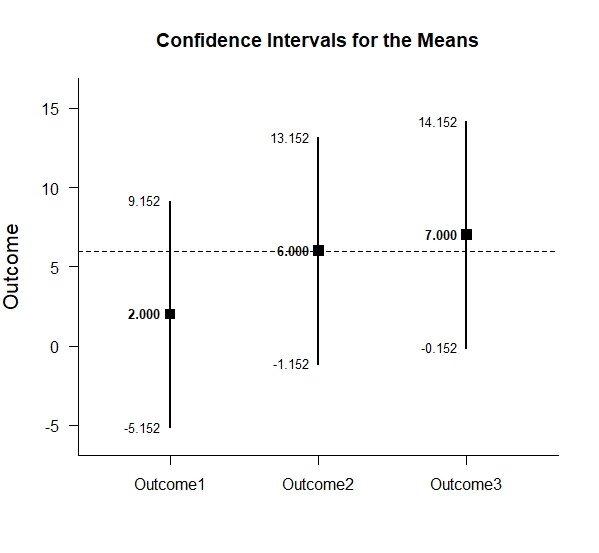
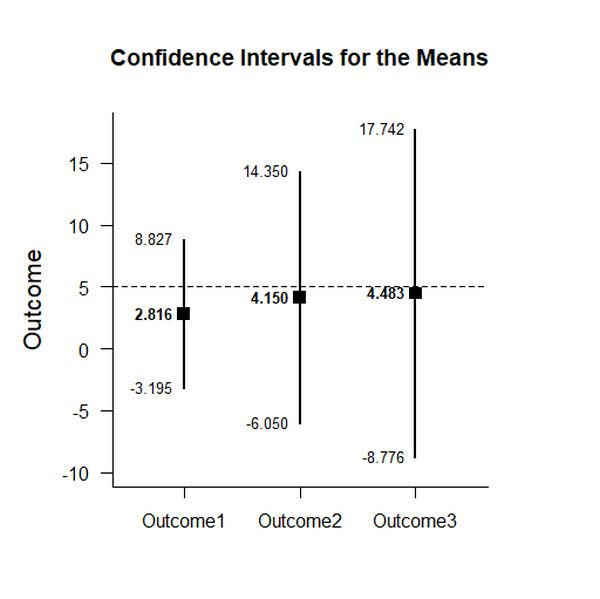
Updated examples

diff --git a/B-TutorialExamples/Repeated/Repeated-Data-Example.md b/B-TutorialExamples/Repeated/Repeated-Data-Example.md
@@ -76,7 +76,7 @@ plotMeans(Outcome1,Outcome2,Outcome3)
 
 Of course, it is possible to change from the default confidence level. Additionally, it is possible to add a comparison line to represent a population (or test) value.
 ```r
-plotMeans(Outcome1,Outcome2,Outcome3,conf.level=.99,mu=6)
+plotMeans(Outcome1,Outcome2,Outcome3,conf.level=.99,mu=5)
 ```
 <kbd><img src="Repeated-Figure2.jpeg"></kbd>
 
@@ -97,15 +97,15 @@ Outcome3 7.000 1.224 5.717 3.000 0.011
 
 Often, the default test value of zero is not meaningful or plausible. This too can be altered (often in conjunction with what is presented in the plot).
 ```r
-testMeans(Outcome1,Outcome2,Outcome3,mu=6)
+testMeans(Outcome1,Outcome2,Outcome3,mu=5)
 ```
 ```
 HYPOTHESIS TESTS FOR THE MEANS
 
            Diff    SE      t    df     p
-Outcome1 -4.000 1.224 -3.267 3.000 0.047
-Outcome2  0.000 1.224  0.000 3.000 1.000
-Outcome3  1.000 1.224  0.817 3.000 0.474
+Outcome1 -3.000 1.224 -2.450 3.000 0.092
+Outcome2  1.000 1.224  0.817 3.000 0.474
+Outcome3  2.000 1.224  1.633 3.000 0.201
 ```
 
 #### Effect Sizes for the Means
@@ -125,15 +125,15 @@ Outcome3 2.858  2.079 1.063  0.464 5.227
 
 Here too it is possible to alter the width of the confidence intervals and to establish a more plausible comparison value for the effect size.
 ```r
-standardizeMeans(Outcome1,Outcome2,Outcome3,mu=6,conf.level=.99)
+standardizeMeans(Outcome1,Outcome2,Outcome3,mu=5,conf.level=.99)
 ```
 ```
 CONFIDENCE INTERVALS FOR THE STANDARDIZED MEANS
 
               d d(unb)    SE     LL    UL
-Outcome1 -1.633 -1.188 0.761 -3.765 0.398
-Outcome2  0.000  0.000 0.559 -1.288 1.288
-Outcome3  0.408  0.297 0.574 -0.968 1.734
+Outcome1 -1.225 -0.891 0.680 -3.011 0.547
+Outcome2  0.408  0.297 0.574 -0.968 1.734
+Outcome3  0.817  0.594 0.616 -0.732 2.320
 ```
 
 ### Analyses of a Variable Comparison
@@ -193,13 +193,13 @@ Comparison -4.000 1.224 -3.267 3.000 0.047
 
 If the default value of zero is not plausible, it too can be changed.
 ```r
-testDifference(Outcome1,Outcome2,mu=-2)
+testDifference(Outcome1,Outcome2,mu=2)
 ```
 ```
 HYPOTHESIS TEST FOR THE COMPARISON
 
              Diff    SE      t    df     p
-Comparison -2.000 1.224 -1.633 3.000 0.201
+Comparison -6.000 1.224 -4.900 3.000 0.016
 ```
 
 #### Effect Size for the Mean Difference
@@ -288,13 +288,13 @@ Contrast 4.500 1.307 3.444 3.000 0.041
 
 If desired, the contrast can be tested against other values if needed.
 ```r
-testContrast(Outcome1,Outcome2,Outcome3,contrast=O1vsOthers,mu=-1)
+testContrast(Outcome1,Outcome2,Outcome3,contrast=O1vsOthers,mu=4)
 ```
 ```
 HYPOTHESIS TEST FOR THE CONTRAST
 
            Est    SE     t    df     p
-Contrast 4.500 1.307 3.444 3.000 0.041
+Contrast 0.500 1.307 0.383 3.000 0.727
 ```
 
 #### Effect Size for a Contrast

diff --git a/B-TutorialExamples/Repeated/Repeated-Summary-Example.md b/B-TutorialExamples/Repeated/Repeated-Summary-Example.md
@@ -93,7 +93,7 @@ plotMeans(WithinSummary)
 
 Of course, it is possible to change from the default confidence level. Additionally, it is possible to add a comparison line to represent a population (or test) value.
 ```r
-plotMeans(WithinSummary,conf.level=.99,mu=6)
+plotMeans(WithinSummary,conf.level=.99,mu=5)
 ```
 <kbd><img src="Repeated-Figure2.jpeg"></kbd>
 
@@ -114,15 +114,15 @@ Outcome3 7.000 1.224 5.717 3.000 0.011
 
 Often, the default test value of zero is not meaningful or plausible. This too can be altered (often in conjunction with what is presented in the plot).
 ```r
-testMeans(WithinSummary,mu=6)
+testMeans(WithinSummary,mu=5)
 ```
 ```
 HYPOTHESIS TESTS FOR THE MEANS
 
            Diff    SE      t    df     p
-Outcome1 -4.000 1.224 -3.267 3.000 0.047
-Outcome2  0.000 1.224  0.000 3.000 1.000
-Outcome3  1.000 1.224  0.817 3.000 0.474
+Outcome1 -3.000 1.224 -2.450 3.000 0.092
+Outcome2  1.000 1.224  0.817 3.000 0.474
+Outcome3  2.000 1.224  1.633 3.000 0.201
 ```
 
 #### Effect Sizes for the Means
@@ -142,15 +142,15 @@ Outcome3 2.858  2.079 1.063  0.464 5.227
 
 Here too it is possible to alter the width of the confidence intervals and to establish a more plausible comparison value for the effect size.
 ```r
-standardizeMeans(WithinSummary,mu=6,conf.level=.99)
+standardizeMeans(WithinSummary,mu=5,conf.level=.99)
 ```
 ```
 CONFIDENCE INTERVALS FOR THE STANDARDIZED MEANS
 
               d d(unb)    SE     LL    UL
-Outcome1 -1.633 -1.188 0.761 -3.765 0.398
-Outcome2  0.000  0.000 0.559 -1.288 1.288
-Outcome3  0.408  0.297 0.574 -0.968 1.734
+Outcome1 -1.225 -0.891 0.680 -3.011 0.547
+Outcome2  0.408  0.297 0.574 -0.968 1.734
+Outcome3  0.817  0.594 0.616 -0.732 2.320
 ```
 
 ### Analyses of a Variable Comparison
@@ -216,12 +216,12 @@ Comparison -4.000 1.224 -3.267 3.000 0.047
 
 If the default value of zero is not plausible, it too can be changed.
 ```r
-testDifference(CompSummary,WithinCorr,mu=-2)
+testDifference(CompSummary,WithinCorr,mu=2)
 ```
 HYPOTHESIS TEST FOR THE COMPARISON
 
              Diff    SE      t    df     p
-Comparison -2.000 1.224 -1.633 3.000 0.201
+Comparison -6.000 1.224 -4.900 3.000 0.016
 ```
 
 #### Effect Size for the Mean Difference
@@ -311,13 +311,13 @@ Contrast 4.500 1.307 3.444 3.000 0.041
 
 If desired, the contrast can be tested against other values if needed.
 ```r
-testContrast(WithinSummary,WithinCorr,contrast=O1vsOthers,mu=-1)
+testContrast(WithinSummary,WithinCorr,contrast=O1vsOthers,mu=4)
 ```
 ```
 HYPOTHESIS TEST FOR THE CONTRAST
 
            Est    SE     t    df     p
-Contrast 4.500 1.307 3.444 3.000 0.041
+Contrast 0.500 1.307 0.383 3.000 0.727
 ```
 
 #### Effect Size for a Contrast
